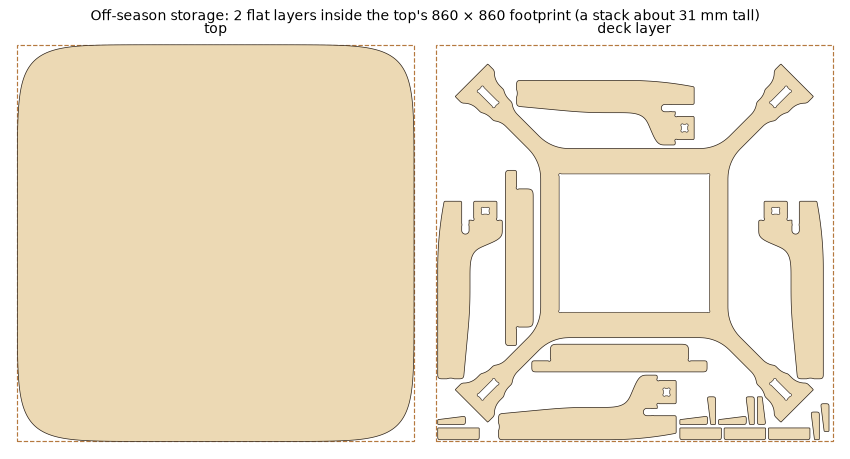
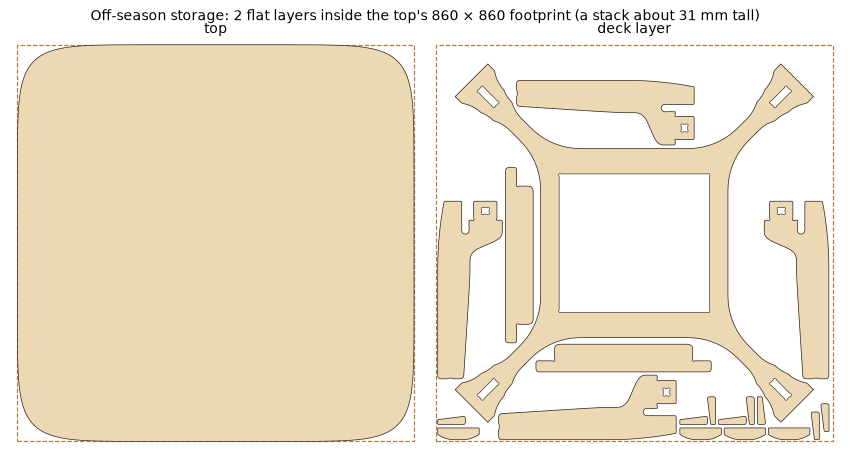
docs: the shave-and-smooth pass; the heater's screws suit the 15 mm cheeks (owner); figures redrawn

diff --git a/PLAN.md b/PLAN.md
@@ -35,9 +35,10 @@ and anything I haven't confirmed yet is marked **TODO-verify**.
 - **Leg plates (4, 140 × 385 mm), one on each corner's diagonal**, its outer end at the frame corner (owner 2026-11).
   - Under the deck each plate is 140 mm wide along the diagonal: the post (40 mm), the 19 mm head slot 60 mm in
     from the corner, a 10 mm shoulder, the 50 mm tenon and a 10 mm inner shoulder. Below the haunch (full width
-    down to 305 mm, then one S-curve) it narrows to 70 mm, and from 150 mm down tapers softly to 56 mm at the
+    down to 305 mm, then one S-curve) it narrows to 70 mm, and from 220 mm down tapers softly in one long line to 56 mm at the
     floor. Its outer edge stays at the corner all the way down, so the legs take up little room along each side.
-  - **The crosspiece (4, 90 × 25.5 mm)** drops into the plate's head slot, across the plate. The slot is only
+  - **The crosspiece (4, 90 × 25.5 mm, its underside arched up to 14 mm at the ends: each half is a little
+    cantilever)** drops into the plate's head slot, across the plate. The slot is only
     25 mm deep and round-bottomed: the crosspiece's square edges sit on the arc, and its top comes out flush
     with the plate's shoulders. The deck bears on both, which gives the joint a 90 mm base against twisting
     (one plate alone would rock open at about 32 N). The crosspiece is cut 0.5 mm proud: sand its top edge at
@@ -57,7 +58,7 @@ and anything I haven't confirmed yet is marked **TODO-verify**.
   0.2 mm each side), 5 mm past the lying wedge, the plate's top edge and the crosspiece's (owner, 2026-11), so the
   pads are small crosses at the ends of the arms; the deck stops square across the diagonal beside each post. A ring round the **heater well** (326 × 300 mm: the heater plus
   both cheeks) is 40 mm wide beside the cheeks and runs 15 mm past their ears. Four 36 mm arms along the
-  diagonals join them, with R90 fillets at the ring, R40 at the pads and R12 corners outside. 1.33 kg,
+  diagonals join them, with R150 fillets at the ring and R80 at the pads (owner 2026-11: smoother, and stronger), and R12 corners outside. 1.33 kg,
   against 2.1 kg for the H.
   - The deck holds the futon up across the middle. Its openings are as big as the H's were (188 mm deep
     at mid-side, where the knees go); the extra open area is near the corners.
@@ -138,9 +139,10 @@ corner, and the wedges and deck don't carry any of the weight from above.
 **Finite-element check ([docs/fea.md](docs/fea.md)).** `kotatsu/fea.py` re-checks the
 three parts with real outlines on 14.1 mm stock:
 - **Top.** The grillage above is confirmed within 10 %: everyday at most 15 %, an adult on an edge 37 %.
-- **X deck.** Under a 300 N hand the deck uses up to about 65 % of its strength at the arm fillets with the
+- **X deck.** Under a 300 N hand the deck uses up to about 60 % of its strength at the arm fillets with the
   wedges tight, not the cantilever estimate's 27 % (the 45° arms are softer and weaker than assumed). With
-  slack wedges it reaches 127 % (the "+" legs' deck: 155 %): keep them tight.
+  slack wedges 97 % (the bigger fillets, owner 2026-11; it was 127 % with R90/R40, 155 % under the "+" legs). Still,
+  keep them tight.
 - **Legs.** A 200 N sideways shove at table height, 14.1 mm stock: the worst spot is the head slot's root at
   74-75 % (mesh-stable), the wedge hole about 50 %; the sway is 6.1 mm along x. With the top's worst corner load
   as well (an adult on an edge) it drops to 51 %; that load alone uses 28 %. (The "+" legs' plate A: 80 %, sway 7.1 mm, after it first failed

diff --git a/README.md b/README.md
@@ -465,6 +465,9 @@ one (25 mm) and a higher haunch brought it to 84-95 %, and a round-bottomed slot
 since the crosspiece's edges can sit on the curve, brought it to 75 %. The posts also had to end 14 mm in from
 the corner, since on the diagonal the squircle top's edge comes closest; each leg's outer edge sweeps in to
 there in one long curve, starting well below the deck, so it reads as part of the leg.
+A last pass shaved and smoothed every curve that didn't have a job: the legs taper in one long line, the
+crosspieces arch underneath, and the deck's arms flare into the ring and the pads with much bigger fillets.
+That made the deck stronger, too: with the wedges slack it now stays under its strength (97 %, was 127 %).
 
 ![The diagonal legs in the 3-D view, with the top, futon and rug hidden: one plate on each corner's diagonal, a crosspiece under each corner of the X deck, a wedge across each arm](docs/img/v2-diagonal.jpg)
 

diff --git a/docs/heater.md b/docs/heater.md
@@ -46,8 +46,8 @@ two heater cheeks hanging under the deck.
 - **TODO-verify (before ordering v2):** where the knob and the cord's socket are, and how far they stick out. The
   well is only 5 mm longer than the body at each end, and the cheeks take both sides, so anything on an end or a
   side won't fit (on the bottom it's fine).
-- **TODO-verify:** the screws must be short enough not to poke out of the 15 mm cheek (v2): at most about 13 mm plus the
-  tab's thickness, so the tips stay 2 mm inside the wood. Drill 2–2.5 mm pilot holes. I'll drill the holes myself during assembly, so the cut
+- **Checked (owner, 2026-11):** the screws supplied with the heater suit the 15 mm cheeks (they must not poke out:
+  at most about 13 mm into the wood). Drill 2–2.5 mm pilot holes. I'll drill the holes myself during assembly, so the cut
   files don't have any.
 
 ## Things to watch

diff --git a/docs/fea.md b/docs/fea.md
@@ -159,7 +159,7 @@ senses together takes 0.71 × the push); the top's load goes on its post and ten
 | 200 N push + the top's worst corner load | 51 % (the load from above steadies the joint) | |
 | The top's worst corner load only (an adult on an edge) | 28 % | |
 | 200 N push, nominal 15 mm stock, the crosspiece on the crush ribs | 62 % | |
-| Deck (300 N hand), wedges tight / slack | 65 / 127 % ("+" legs: 68 / 155) | |
+| Deck (300 N hand), wedges tight / slack | 60 / 97 % with R150/R80 fillets (R90/R40: 65 / 127; "+" legs: 68 / 155) | |
 | Top, everyday / an adult on an edge | 15 / 37 % ("+": 18 / 42) | |
 
 How the head got its shape: a 36 mm crosspiece put the slot's bottom in the haunch (183 %); 25 mm with the haunch
